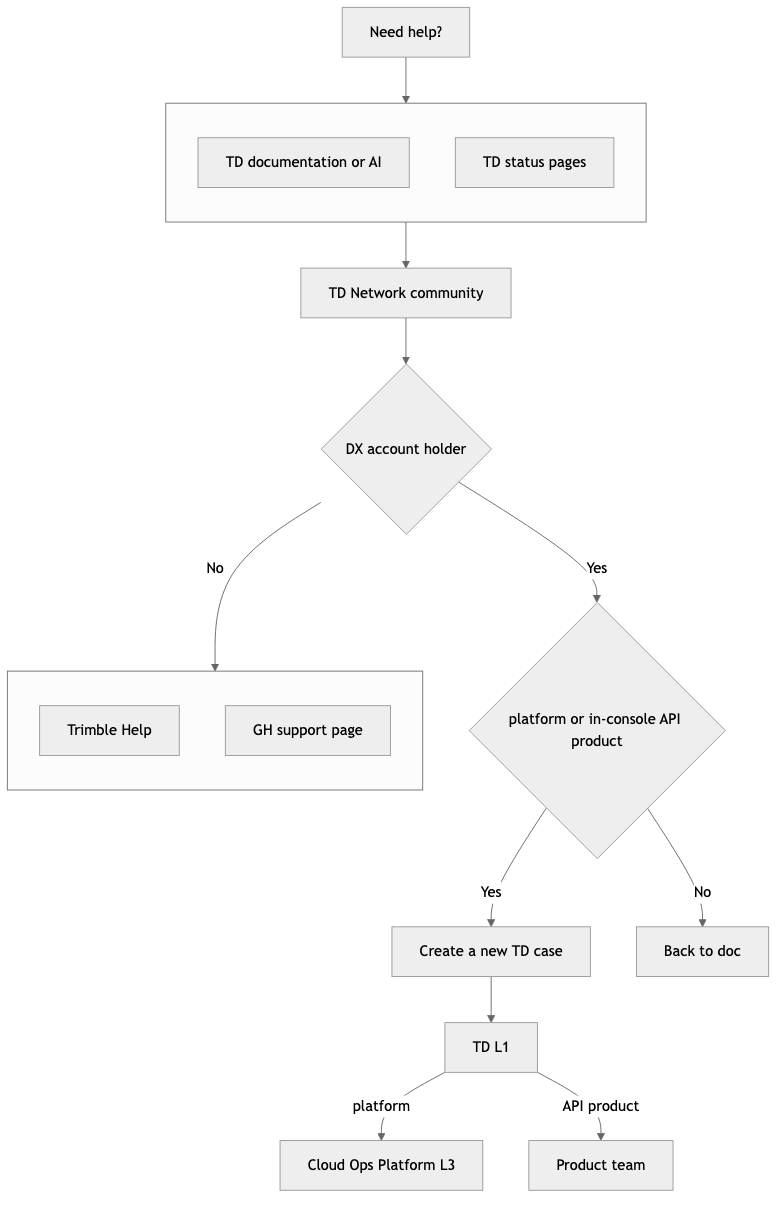
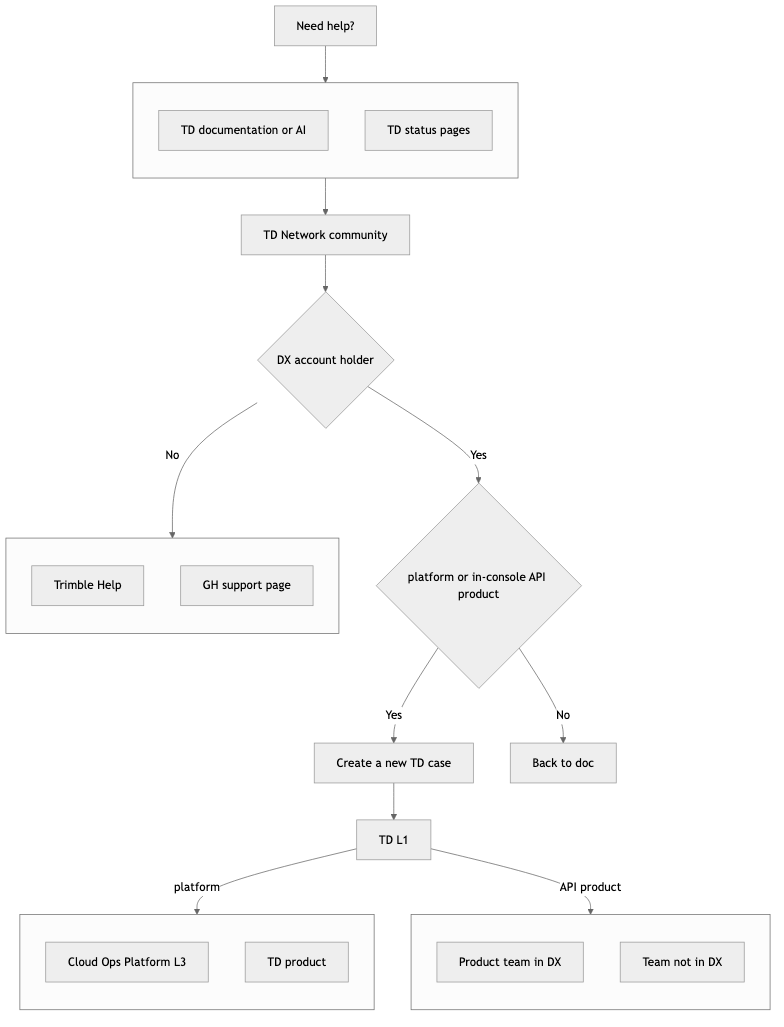
help

diff --git a/image/developer/help.md b/image/developer/help.md
@@ -29,6 +29,19 @@ flowchart TD
 	casetype -->|No| dxback["Back to doc"]
 
 	createcase --> tdl1["TD L1"]
-	tdl1 -->|platform| cloudops["Cloud Ops Platform L3"]
-	tdl1 -->|API product| productteam["Product team"]
+
+	subgraph platbranch[" "]
+		direction TB
+		cloudops["Cloud Ops Platform L3"]
+		tdproduct["TD product"]
+	end
+
+	subgraph apibranch[" "]
+		direction TB
+		productteam["Product team in DX"]
+		productnondx["Team not in DX"]
+	end
+
+	tdl1 -->|platform| platbranch
+	tdl1 -->|API product| apibranch
 ```
